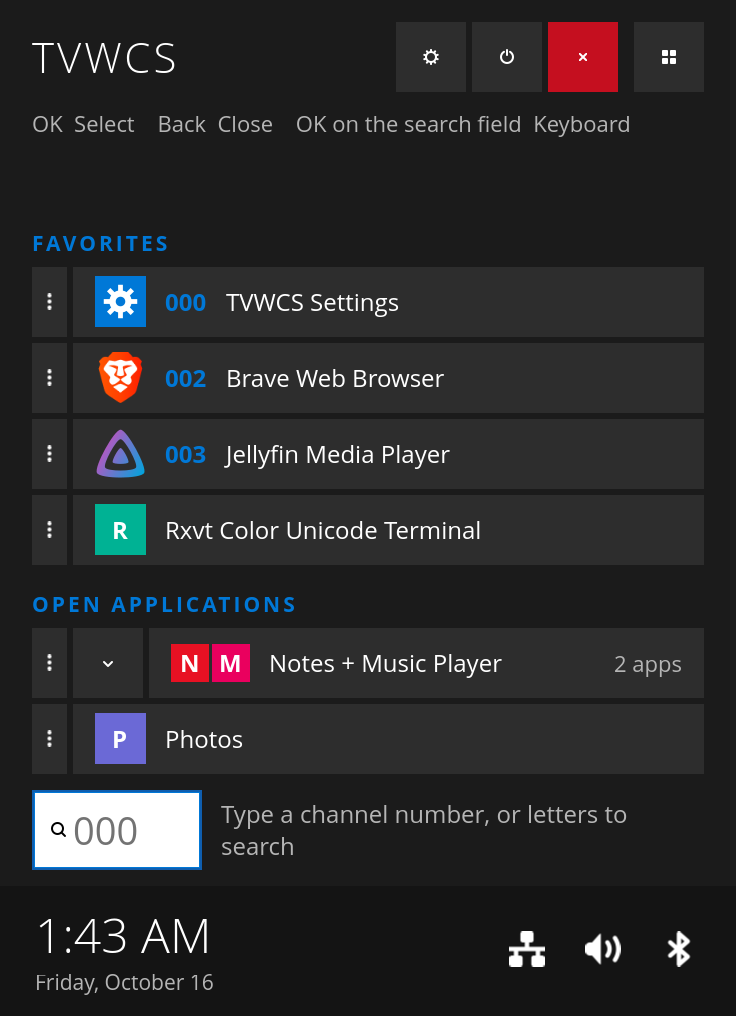
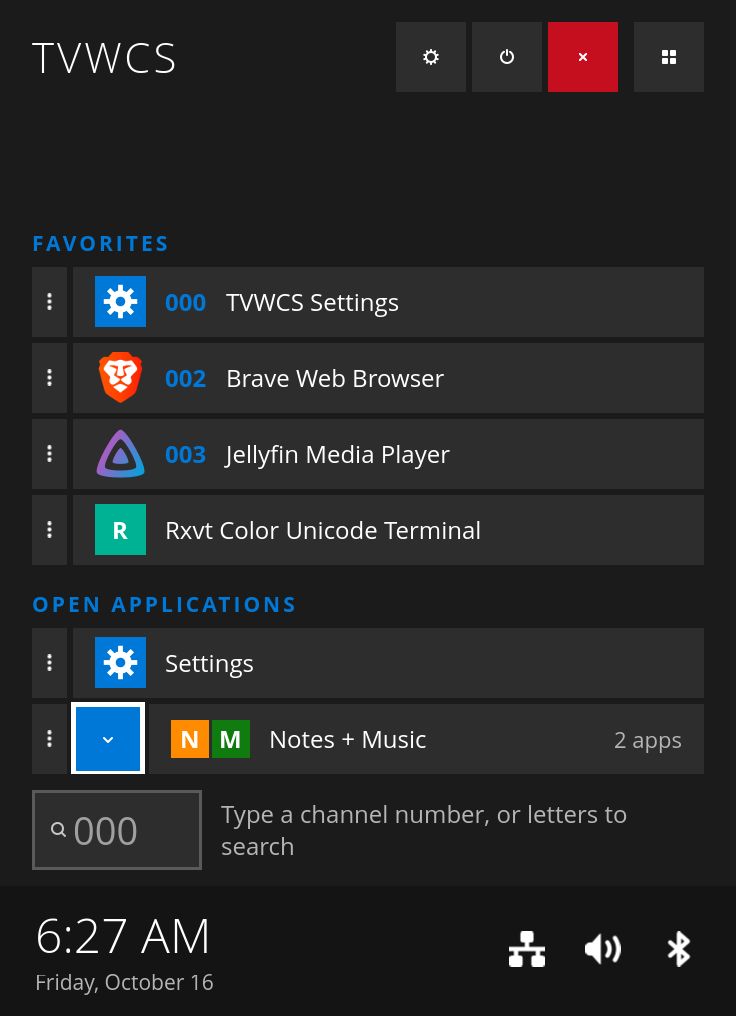
Retake the Quick Menu screenshots without the key-hint line
The Quick Menu caption follows the current order: Favorites, Open
applications, then the search field.

Claude-Session: https://claude.ai/code/session_01KgRAfRuFE4Ssiadg3MHhp7

diff --git a/README.md b/README.md
@@ -18,7 +18,7 @@ It works with normal desktop apps. It is not a media center and needs no plugins
     <td valign="top"><img src="assets/guide-menu.png" alt="The Quick Menu with the Applications pane open beside it" width="100%"></td>
   </tr>
   <tr>
-    <td valign="top">Buttons at the top: ⚙ Settings, ⏻ power menu, ✕ close, ⊞ Applications. Below: search, <b>Open applications</b> (by workspace; ▴ here shows the two apps sharing one) and <b>Favorites</b>. At the bottom: the clock, and icons for network, volume, Bluetooth and updates.</td>
+    <td valign="top">Buttons at the top: ⚙ Settings, ⏻ power menu, ✕ close, ⊞ Applications. Below: <b>Favorites</b>, <b>Open applications</b> (by workspace; ▾ shows the apps that share one), then the search field. At the bottom: the clock, and icons for network, volume, Bluetooth and updates.</td>
     <td valign="top"><b>Channels</b> lists apps you gave a number. <b>All applications</b> lists every app by category; OK/Enter folds a category. ☆ makes an app a favorite, ✎ edits its launch profiles.</td>
   </tr>
   <tr>
